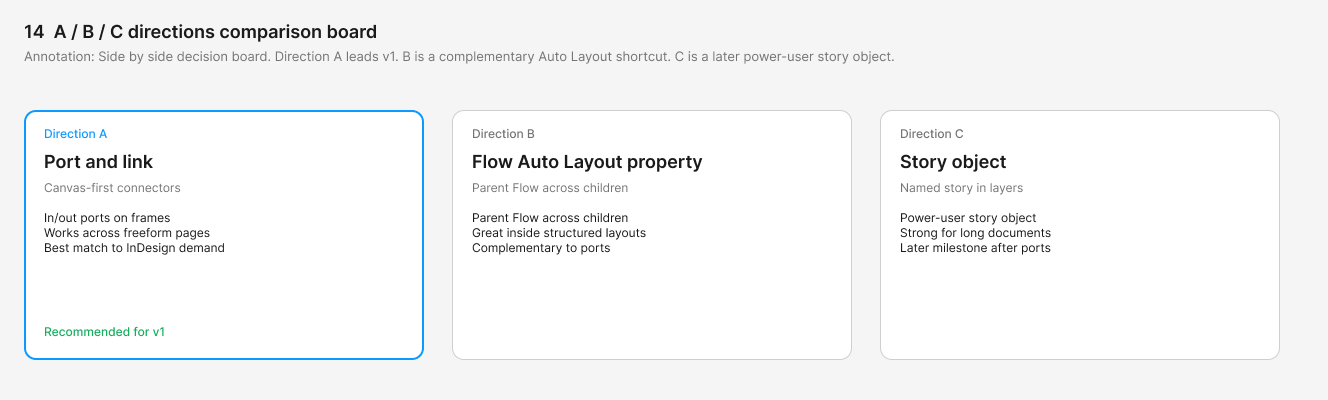
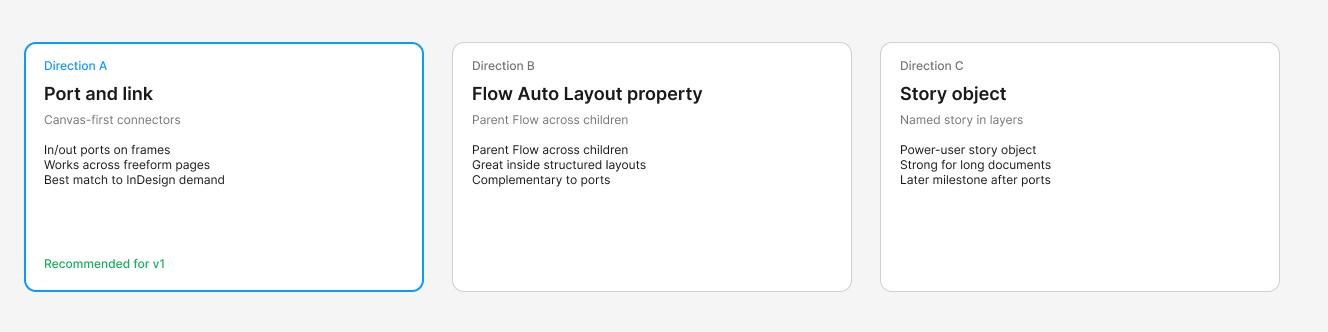
Shrink the text caret and hide Trace and Mimic.
The ask caret stays blue and follows the pointer, but it is now 2px wide and about 1.15em tall. Trace and Mimic are commented out of the site. The directions board uses the clean image, and the UI3 spacing note sits at the end of Solution.

diff --git a/content/work/linked-text-frames.ts b/content/work/linked-text-frames.ts
@@ -41,6 +41,7 @@ export type Block =
   | { type: "h4"; text: string }
   | { type: "p"; text: string }
   | { type: "link"; text: string; href: string }
+  | { type: "note"; text: string }
   | { type: "list"; items: string[] }
   | { type: "quote"; text: string; cite: string }
   | { type: "image"; frame: Frame; maxWidth?: number; enlarge?: boolean }
@@ -314,7 +315,7 @@ export const linkedFrames = {
           frame: {
             src: img("directions-a-b-c-comparison.png"),
             width: 1328,
-            height: 400,
+            height: 332,
             alt: "Decision board with three cards. Direction A, Port and link, marked Recommended for v1. Direction B, Flow Auto Layout property. Direction C, Story object.",
             caption:
               "Direction A leads v1. B is a complementary Auto Layout shortcut. C is a later power-user story object.",
@@ -404,7 +405,7 @@ export const linkedFrames = {
         { type: "h2", text: "Text flow: thread text the way Figma would" },
         {
           type: "p",
-          text: 'Eight screens at 1440 x 900, drawn to look like Figma UI3 on a real "Wander" magazine Lisbon spread, linked with Smart Animate. Some spacing values are estimates because the official UI3 kit would not open. Any keyboard shortcuts shown are my proposals, not real Figma shortcuts.',
+          text: 'Eight screens at 1440 x 900, drawn to look like Figma UI3 on a real "Wander" magazine Lisbon spread, linked with Smart Animate.',
         },
         {
           type: "beside",
@@ -469,6 +470,10 @@ export const linkedFrames = {
             "Deleting the middle column, a toast confirming the text was kept, and Undo restoring the column.",
             "Delete a linked box and its text stays in the story. Undo is one click away.",
           ),
+        },
+        {
+          type: "note",
+          text: "Some spacing values are estimates because the official UI3 kit would not open. Any keyboard shortcuts shown are my proposals, not real Figma shortcuts.",
         },
       ],
     },

diff --git a/components/cursor/cursor.tsx b/components/cursor/cursor.tsx
@@ -119,6 +119,14 @@ export function SiteCursor() {
     let grabbing = false;
     let frame = 0;
     let running = true;
+    let caretH = 18;
+
+    const caretHeightFor = (target: EventTarget | null) => {
+      const el = target instanceof Element ? target : null;
+      const text = el?.closest("p, li, blockquote, h1, h2, h3, h4");
+      const size = text ? Number.parseFloat(getComputedStyle(text).fontSize) : 15;
+      return (Number.isFinite(size) ? size : 15) * 1.15;
+    };
 
     const draw = () => {
       if (!running) return;
@@ -126,9 +134,20 @@ export function SiteCursor() {
       point.dy += (point.y - point.dy) * 0.38;
       point.rx += (point.x - point.rx) * 0.16;
       point.ry += (point.y - point.ry) * 0.16;
-      const scale = mode === "ask" ? "scale(0.22, 1.35)" : `scale(${scaleFor(mode)})`;
       dot.style.transform = `translate3d(${point.dx}px, ${point.dy}px, 0)`;
-      ring.style.transform = `translate3d(${point.rx}px, ${point.ry}px, 0) ${scale}`;
+      if (mode === "ask") {
+        ring.style.width = "2px";
+        ring.style.height = `${caretH}px`;
+        ring.style.marginTop = `${-caretH / 2}px`;
+        ring.style.marginLeft = "-1px";
+        ring.style.transform = `translate3d(${point.rx}px, ${point.ry}px, 0)`;
+      } else {
+        ring.style.width = "";
+        ring.style.height = "";
+        ring.style.marginTop = "";
+        ring.style.marginLeft = "";
+        ring.style.transform = `translate3d(${point.rx}px, ${point.ry}px, 0) scale(${scaleFor(mode)})`;
+      }
       frame = window.requestAnimationFrame(draw);
     };
 
@@ -142,6 +161,7 @@ export function SiteCursor() {
     const onMove = (event: PointerEvent) => {
       point.x = event.clientX;
       point.y = event.clientY;
+      caretH = caretHeightFor(event.target);
       if (grabbing && down) {
         setMode("grabbing");
         return;

diff --git a/components/home/home-view.tsx b/components/home/home-view.tsx
@@ -7,7 +7,7 @@ import { ProjectCard } from "@/components/project-card/project-card";
 import { SectionHeader } from "@/components/section-header/section-header";
 import { SignalPath } from "@/components/signal-path/signal-path";
 import { TalkAction } from "@/components/talk/talk-action";
-import { home, site } from "@/lib/content";
+import { hiddenWorkSlugs, home, site } from "@/lib/content";
 import type { WallNote } from "@/lib/notes";
 import Link from "next/link";
 import { ContactLinks } from "./contact-links";
@@ -28,9 +28,15 @@ export function HomeView({ notes }: { notes: WallNote[] }) {
               link={home.selectedWork.link}
             />
             <div className={styles.cards}>
-              {home.selectedWork.cards.map((card) => (
-                <ProjectCard key={card.slug} card={card} />
-              ))}
+              {/* Trace and Mimic are hidden for now. Remove their slugs from hiddenWorkSlugs to show the cards again. */}
+              {home.selectedWork.cards
+                .filter(
+                  (card) =>
+                    !hiddenWorkSlugs.includes(card.slug as (typeof hiddenWorkSlugs)[number]),
+                )
+                .map((card) => (
+                  <ProjectCard key={card.slug} card={card} />
+                ))}
             </div>
           </Reveal>
         </div>

diff --git a/lib/content.ts b/lib/content.ts
@@ -7,8 +7,10 @@ import siteJson from "@/content/site.json";
 import campusEventsJson from "@/content/work/campus-events.json";
 import campusRideJson from "@/content/work/campus-ride.json";
 import { linkedFramesMeta } from "@/content/work/linked-text-frames";
-import mimicJson from "@/content/work/mimic.json";
-import traceJson from "@/content/work/trace.json";
+// Trace and Mimic are hidden for now. To restore: uncomment these imports,
+// the two entries in `works`, and remove "trace" and "mimic" from hiddenWorkSlugs.
+// import mimicJson from "@/content/work/mimic.json";
+// import traceJson from "@/content/work/trace.json";
 
 export const site = siteJson;
 export const home = homeJson;
@@ -17,12 +19,16 @@ export const aboutPage = aboutJson;
 export const gatheringsPage = gatheringsJson;
 export const labPage = labJson;
 
+// Trace and Mimic are hidden for now. Uncomment to put them back in the list,
+// the sitemap, and their routes. Then drop them from hiddenWorkSlugs.
+export const hiddenWorkSlugs = ["trace", "mimic"] as const;
+
 export const works = [
   linkedFramesMeta,
   campusRideJson,
   campusEventsJson,
-  traceJson,
-  mimicJson,
+  // traceJson,
+  // mimicJson,
 ] as const;
 
 export type WorkMeta = (typeof works)[number];

diff --git a/components/case-study/linked-frames/linked-frames.tsx b/components/case-study/linked-frames/linked-frames.tsx
@@ -75,6 +75,8 @@ function BlockView({ block }: { block: Block }) {
           </a>
         </p>
       );
+    case "note":
+      return <p className={styles.note}>{block.text}</p>;
     case "list":
       return (
         <ul className={styles.list}>

diff --git a/components/case-study/linked-frames/linked-frames.module.css b/components/case-study/linked-frames/linked-frames.module.css
@@ -150,6 +150,13 @@
   overflow-wrap: anywhere;
 }
 
+.note {
+  margin: 8px 0 0;
+  font-size: 13px;
+  line-height: 1.45;
+  color: var(--color-muted);
+}
+
 .list {
   display: flex;
   flex-direction: column;

diff --git a/components/cursor/cursor.module.css b/components/cursor/cursor.module.css
@@ -52,7 +52,8 @@
 }
 
 .root[data-mode="ask"] .ring {
-  border-radius: 2px;
+  border-width: 0;
+  border-radius: 1px;
   background: var(--color-accent);
 }
 
